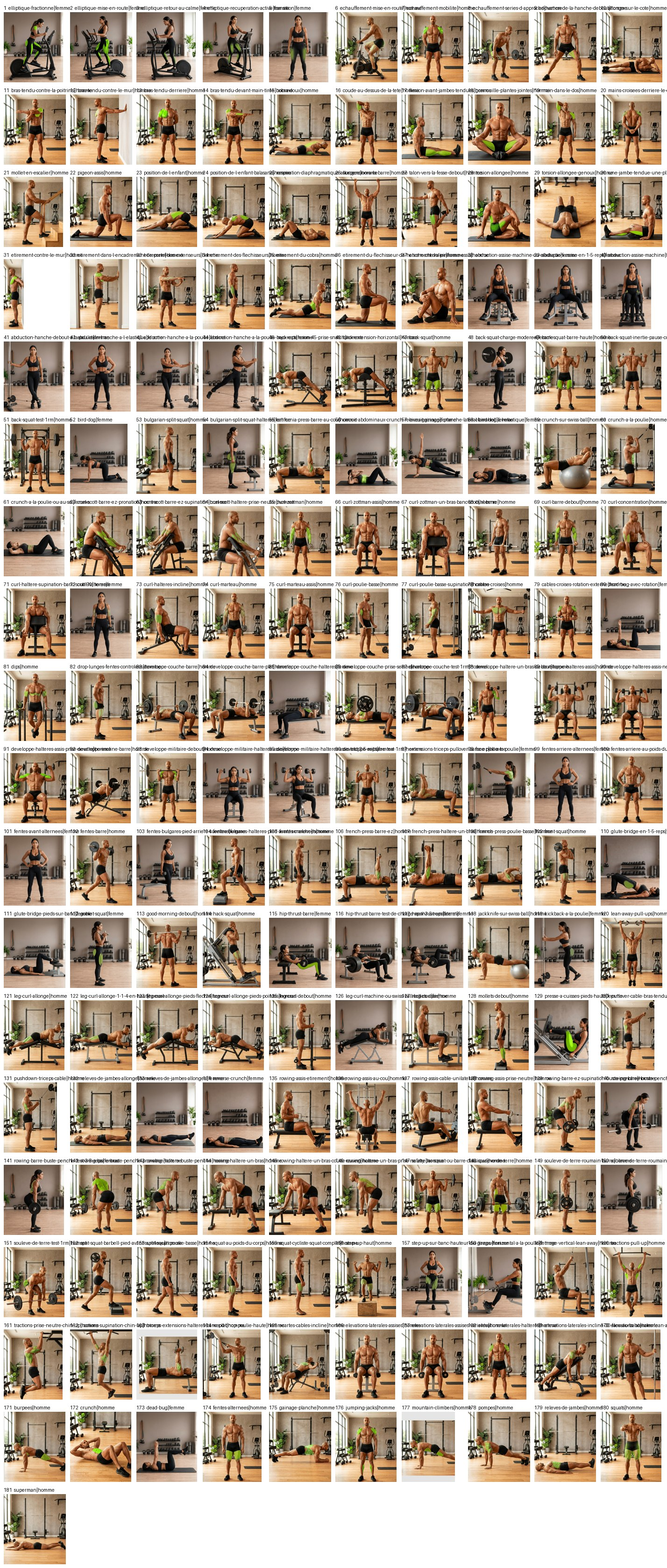
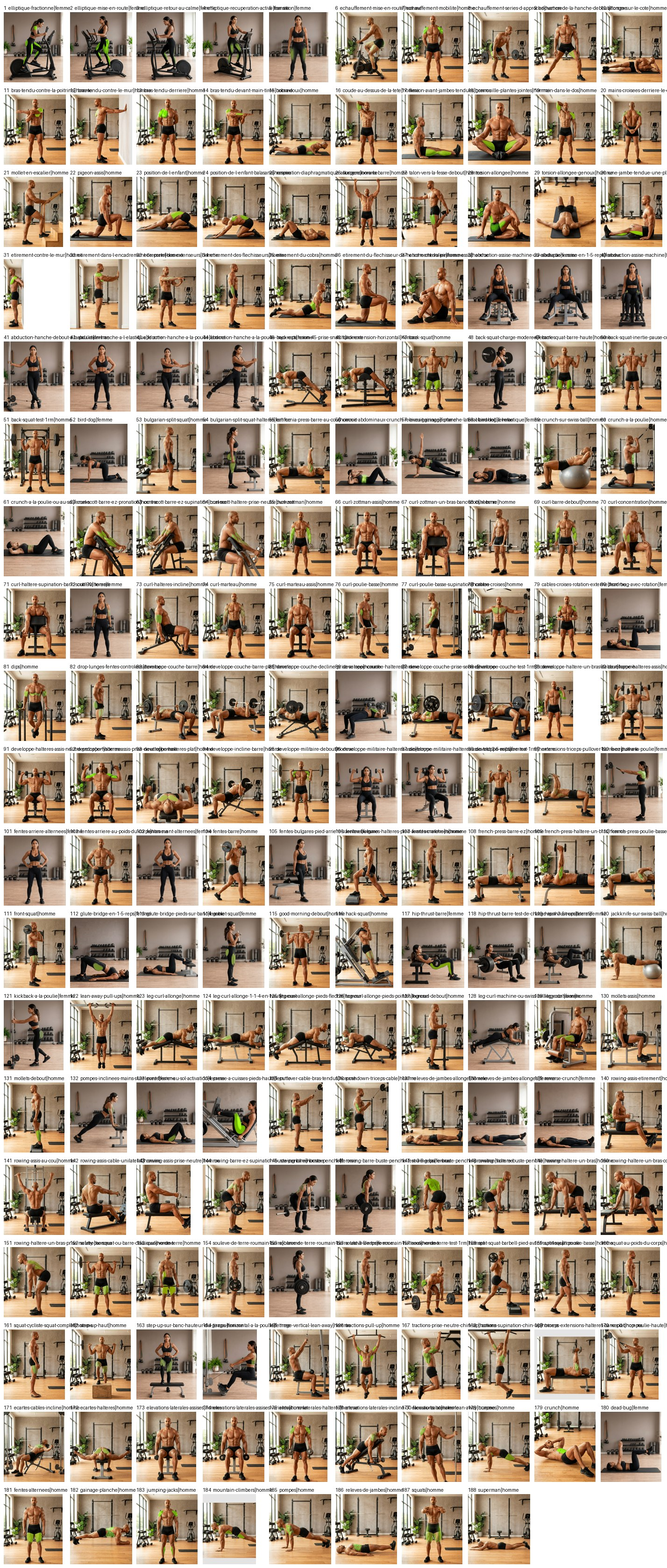
Lot 28 : 7 acceptees (RDL, leg-extension, ecartes...), 2 refus ; relecture 9 ok ; 188/331

diff --git a/CE-QUI-COINCE.md b/CE-QUI-COINCE.md
@@ -8,11 +8,10 @@ bloquants ou qui demandent une décision.
 
 | Mouvement | Ce qui coince, mesuré | Déjà essayé | Solution prévue au prochain tour | Décision attendue de vous |
 |---|---|---|---|---|
-| **Mountain climbers (femme)** — 5 refus | cases assemblées : pieds nus d'un côté, chaussures de l'autre, et même jambe avant | prompt permuté, édition de planche, cases séparées, proche/lointaine, cadrage imposé | **éditer UNE seule case** (lot27-case1, chaussures imposées) : « tends la jambe pliée vers l'arrière et amène le genou de l'autre jambe sous la poitrine » ; assembler ensuite case éditée + case d'origine inversée | aucune |
-| **Élévations latérales coude à 90 (homme)** — 2 refus | géométrie enfin bonne mais vert posé AUSSI sur les abdominaux aux deux cases | départs variés, géométrie avant-bras horizontaux | même prompt géométrique + règle de vert exclusive : « vert UNIQUEMENT sur les deux deltoïdes latéraux ; abdomen, poitrine et bras gardent leur couleur naturelle » | aucune |
+| **Mountain climbers (femme)** — 6 refus | aucune permutation de jambes obtenue, par aucune méthode | prompts permutés, éditions de planche, cases séparées, proche/lointaine, cadrage imposé, édition ancrée chaussures | DERNIER essai généré : édition nommant chaque jambe par la position de sa chaussure dans l'image ; **si échec : je vous soumets le choix** (a) garder une planche jambe unique genou haut/genou bas (moins fidèle au mouvement), (b) supprimer visuellement l'alternance en montrant le mouvement sur 2 hauteurs de genou, (c) me donner vous-même une photo de référence | **oui, si le 7ᵉ essai échoue** |
+| **Élévations latérales coude à 90 (homme)** — 3 refus | vert enfin limité aux deltoïdes, mais textes « START/END » incrustés et 4 haltères en case fin | départs variés, géométrie, vert exclusif | même prompt géométrique + « absolutely no words, no letters, no captions ; exactly TWO dumbbells in the whole sheet, one per hand » | aucune |
 
-Clos ce tour : 7 neuves acceptées ; souleve-de-terre-roumain-halteres reporté d'un tour
-(plafond de 10 générations atteint).
+Clos ce tour : soulevé de terre roumain haltères (après blocage modération, reformulation sobre).
 
 ## 2. Blocs techniques récurrents du générateur d'images (constats, pas des excuses)
 

diff --git a/evolution/media/refonte-photo/PASSATION-NOUVEAU-CHAT.md b/evolution/media/refonte-photo/PASSATION-NOUVEAU-CHAT.md
@@ -10,8 +10,8 @@ session neuve (sans mémoire de la conversation précédente) puisse continuer s
 - Dépôt : `Yandevil974/JARVIS-Fitness-Yanis-Emilie.apk`
 - Branche de travail **obligatoire** : `arena/01a0d51c-jarvis-fitness-yanis-emilie-ap`
   (ne jamais pousser sur `main`, ne jamais créer d'autre branche).
-- Avancement : **181 / 331 animations validées** (`production/etat.json`, clé `chiffres`).
-  Restent **150** : musculation 68, piscine (protocoles) 40, tabata au sol 27,
+- Avancement : **188 / 331 animations validées** (`production/etat.json`, clé `chiffres`).
+  Restent **143** : musculation 61, piscine (protocoles) 40, tabata au sol 27,
   piscine (guides) 9, aqua tabata 6.
   Terminés : **étirements 29 ✅, elliptique 5 ✅, échauffement 3 ✅**.
 - **Vérification des mouvements déjà créés (25/09)** : 70 couples relus case par case
@@ -117,16 +117,15 @@ $P evolution/media/tools/refonte-sheet.py --athlete homme --out $R/gif/homme \
 ## 7. À faire au démarrage du nouveau chat
 
 1. Reprendre les **2 planches en attente** (`production/a-refaire.json`) : mountain-climbers
-   (édition d'une seule case : permuter les jambes, chaussures imposées) et elevations-
-   laterales-coude-a-90 (vert exclusif deltoïdes) — `CE-QUI-COINCE.md` §1 ; plus le report
-   souleve-de-terre-roumain-halteres (plafond de générations du lot 27). Méthode gagnante sur refus
+   (dernier essai généré, sinon décision utilisateur listée dans `CE-QUI-COINCE.md` §1) et
+   elevations-laterales-coude-a-90 (prompt sans texte, exactement deux haltères). Méthode gagnante sur refus
    asymétrique : éditer la case réussie pour fabriquer l'autre. L'audit réalisme est clos : ses 6 remplacements
    sont acceptés ; règles de grée obligatoires dans chaque prompt futur
    (`production/audit-realisme.json`).
 2. Continuer la relecture des **75 couples déjà valides non relus** (feuilles de 3,
    `feuilles-verif.py`), puis le lot « style » des 21 GIF sans vert sur une case
    (`production/style-a-reprendre.json`).
-3. Continuer la musculation (68 restants), puis
+3. Continuer la musculation (61 restants), puis
    **tabata au sol (27)**, **piscine guides (9)**, **piscine protocoles (40)**,
    **aqua tabata (6)** — par lots de ≤ 10.
 3. Après chaque lot : convertir, relire, mettre à jour `etat.json`, `a-refaire.json`,

diff --git a/evolution/media/refonte-photo/verification/VERIFICATION-2026-09-25.md b/evolution/media/refonte-photo/verification/VERIFICATION-2026-09-25.md
@@ -228,10 +228,21 @@ Relecture batch 8 : 3/3 conformes (echauffement-mobilite, echauffement-series-d-
 elevations-laterales-assises-variante). Feuilles : `verification/lot27-01..03.jpg`,
 `verification/relecture-08.jpg`.
 
-## 26. Couverture et suite
+## 27. Lot 28 (meme tour)
 
-Relus sur les onze tours : **162 couples** (38 livrés + 10 lot 17 + 12 relecture + 10 lot 18).
-Sur les **181 valides** actuels, **44 restent à relire** (feuilles de 3, mêmes outils).
+Acceptees 7 : souleve-de-terre-roumain-halteres (reformulation sobre apres blocage moderation),
+developpe-couche-decline-prise-serree, ecartes-halteres et developpe-halteres-plat (vue axiale
+cote tete, coherente aux deux cases), leg-extension (machine ancree), pont-fessier-au-sol-activation,
+pompes-inclinees-mains-surelevees. Refusees 2 : elevations-laterales-coude-a-90 (3e : vert enfin
+limite aux deltoïdes mais textes START/END incrustes et 4 halteres en case fin),
+mountain-climbers (6e : l'edition ancree sur les chaussures n'a pas permute les jambes).
+Relecture batch 9 : 3/3 conformes (elevations-laterales-assises, elevations-laterales-lean-away,
+elliptique-fractionne). Feuilles : `verification/lot28-01..03.jpg`, `verification/relecture-09.jpg`.
+
+## 28. Couverture et suite
+
+Relus sur les douze tours : **172 couples** (38 livrés + 10 lot 17 + 12 relecture + 10 lot 18).
+Sur les **188 valides** actuels, **41 restent à relire** (feuilles de 3, mêmes outils).
 Production : **137 / 331** ; restants 194 (musculation 112, protocoles piscine 40,
 tabata au sol 27, piscine guides 9, aqua tabata 6). **3 planches en attente** dans
 `production/a-refaire.json` : rowing-barre-buste-penche-test-3-5-reps (3ᵉ refus),

diff --git a/PASSATION.md b/PASSATION.md
@@ -13,7 +13,7 @@ deux GIF distincts (l'un à l'homme, l'autre à la femme). L'écart inexpliqué 
 
 | Surface | Faits et vérifiés | Restants |
 |---|---|---|
-| Musculation | 134 | 68 |
+| Musculation | 141 | 61 |
 | Tabata au sol | 10 | 27 |
 | Étirements | 29 | 0 ✅ |
 | Piscine (guides) | 0 | 9 |
@@ -21,7 +21,7 @@ deux GIF distincts (l'un à l'homme, l'autre à la femme). L'écart inexpliqué 
 | Aqua Tabata | 0 | 6 |
 | Elliptique | 5 | 0 ✅ |
 | Échauffement | 3 | 0 ✅ |
-| **Total** | **181** | **150** |
+| **Total** | **188** | **143** |
 
 **25 septembre 2026 — reprise dans un nouveau chat : les mouvements déjà créés ont été
 vérifiés avant de produire.** 119 GIF livrés mesurés (`evolution/media/tools/verif-gifs.py` :
